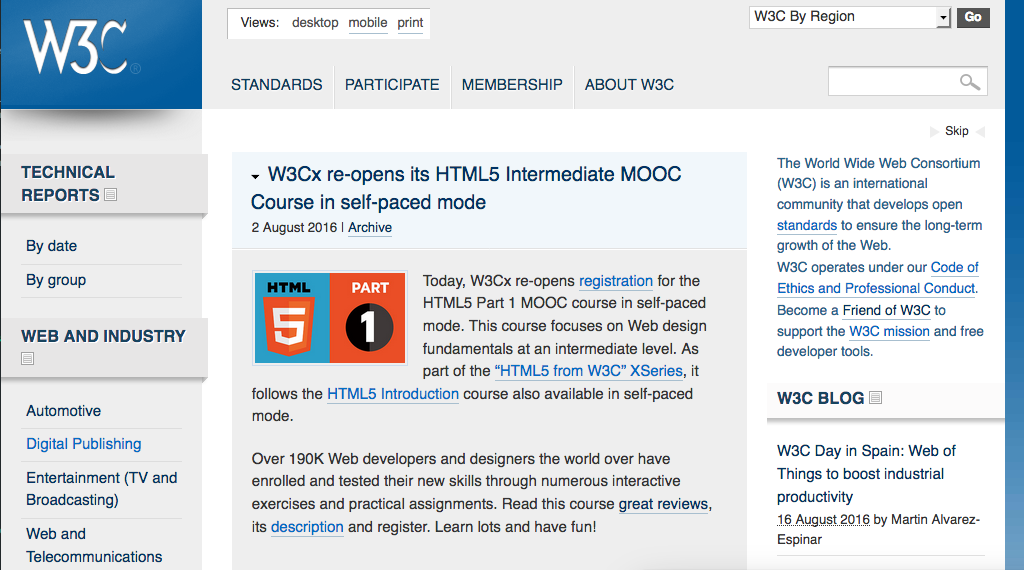
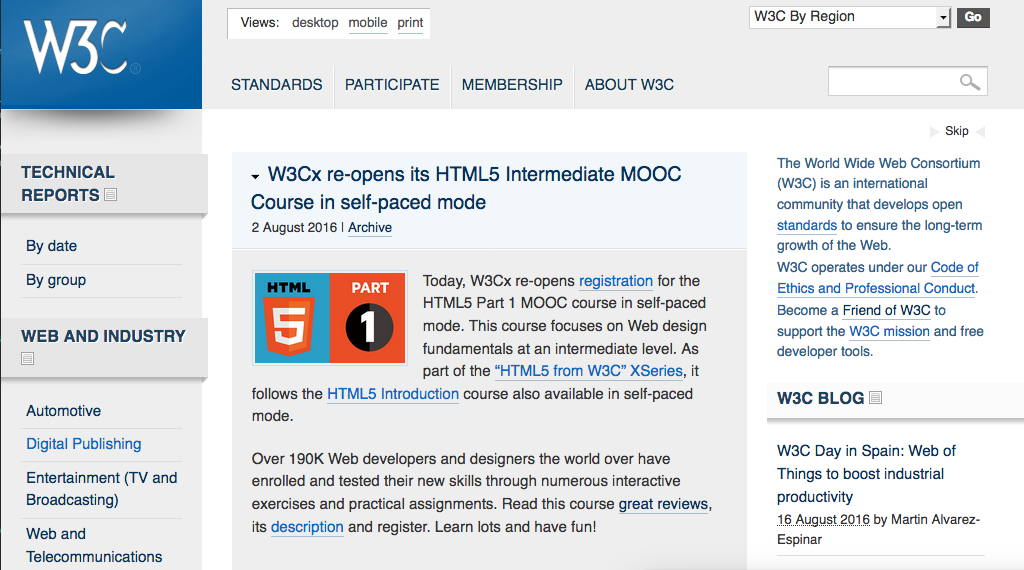
home page, moved i18n link after w3c, and removed blue line from w3c image

Changed region(s): [[0.9688, 0.0, 1.0, 1.0]]

diff --git a/index.html b/index.html
@@ -108,17 +108,17 @@ table {
      		    <h2 style="text-align:center; margin-left:3em; margin-right: 3em;">quick links</h2>
     <div class="link-container">
      		      
-  <div class="cell">
-<table><tbody>
-<tr><td class="image"><a href="http://www.w3.org/International/" title="Internationalization Activity"><img src="images/index//i18n.png" alt=""/></a></td></tr>
-<tr><td class="title"><a href="http://www.w3.org/International/" title="Internationalization Activity">W3C i18n Activity</a></td></tr>
-</tbody></table>
-</div>
-
 <div class="cell">
 <table><tbody>
 <tr><td class="image"><a href="http://www.w3.org/" title="W3C"><img src="images/index//w3c.png" alt=""/></a></td></tr>
 <tr><td class="title"><a href="http://www.w3.org/" title="W3C">W3C</a></td></tr>
+</tbody></table>
+</div>
+
+  <div class="cell">
+<table><tbody>
+<tr><td class="image"><a href="http://www.w3.org/International/" title="Internationalization Activity"><img src="images/index/i18n.png" alt=""/></a></td></tr>
+<tr><td class="title"><a href="http://www.w3.org/International/" title="Internationalization Activity">W3C i18n Activity</a></td></tr>
 </tbody></table>
 </div>
 
